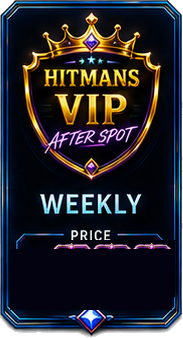
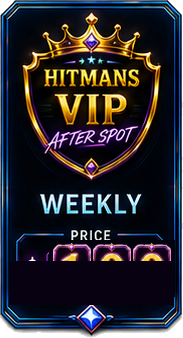
Bake purple price digits into tier cards (clean, no overlay)
Composite the sheet's purple modular digit boxes directly into each
tier card's PRICE slot at build time instead of overlaying them at
runtime. Fills the baked digit-box row with the card's own dark interior
color (covering the old gold numbers and box tops) then alpha-composites
the purple $-and-digit glyphs pixel-exact. Removes the fragile runtime
PriceDigits overlay, its CSS, and the per-digit asset list.

Daily shows $0 (pay-what-you-want). No ghost boxes, no black box,
digits seated precisely in the slot.

Claude-Session: https://claude.ai/code/session_01ADwVEMnuAZygKPZ7Pb8UgW

diff --git a/hitmans_vip_membership_app/src/main.jsx b/hitmans_vip_membership_app/src/main.jsx
@@ -343,30 +343,16 @@ const ui = {
     { label: 'Google Pay', src: '/assets/ui/complete_ui_set/sliced_clean/by_type/buttons/source_14_033_190x47.png' },
     { label: 'PayPal', src: '/assets/ui/complete_ui_set/sliced_clean/by_type/buttons/source_14_040_189x47.png' },
   ],
-  // Tier cards with the PRICE slot emptied — the price is dropped in from the
-  // purple modular digits (see pdigits), matching the membership sheet.
+  // Tier cards with the purple modular price digits baked directly into the
+  // PRICE slot (from the membership sheet) — pixel-exact, no runtime overlay,
+  // no ghost boxes. Daily shows $0 (pay-what-you-want / open contribution).
   tiers: [
-    { name: 'Daily', src: '/assets/ui/complete_ui_set/sliced_clean/by_type/cards/source_01_025_183x338_empty.png' },
-    { name: 'Weekly', src: '/assets/ui/complete_ui_set/sliced_clean/by_type/cards/source_01_026_183x338_empty.png' },
-    { name: 'Monthly', src: '/assets/ui/complete_ui_set/sliced_clean/by_type/cards/source_01_027_181x337_empty.png' },
-    { name: 'Yearly', src: '/assets/ui/complete_ui_set/sliced_clean/by_type/cards/source_01_028_181x337_empty.png' },
-    { name: 'VIP', src: '/assets/ui/complete_ui_set/sliced_clean/by_type/cards/source_01_029_179x337_empty.png' },
+    { name: 'Daily', src: '/assets/ui/complete_ui_set/sliced_clean/by_type/cards/source_01_025_183x338_priced.png' },
+    { name: 'Weekly', src: '/assets/ui/complete_ui_set/sliced_clean/by_type/cards/source_01_026_183x338_priced.png' },
+    { name: 'Monthly', src: '/assets/ui/complete_ui_set/sliced_clean/by_type/cards/source_01_027_181x337_priced.png' },
+    { name: 'Yearly', src: '/assets/ui/complete_ui_set/sliced_clean/by_type/cards/source_01_028_181x337_priced.png' },
+    { name: 'VIP', src: '/assets/ui/complete_ui_set/sliced_clean/by_type/cards/source_01_029_179x337_priced.png' },
   ],
-  // Purple modular price digits (0-9) — used to build any price on the cards.
-  // Listed as explicit literals so the deploy asset-trimmer keeps them.
-  pdigits: [
-    '/assets/ui/complete_ui_set/sliced_clean/by_type/cards/digit_p_0.png',
-    '/assets/ui/complete_ui_set/sliced_clean/by_type/cards/digit_p_1.png',
-    '/assets/ui/complete_ui_set/sliced_clean/by_type/cards/digit_p_2.png',
-    '/assets/ui/complete_ui_set/sliced_clean/by_type/cards/digit_p_3.png',
-    '/assets/ui/complete_ui_set/sliced_clean/by_type/cards/digit_p_4.png',
-    '/assets/ui/complete_ui_set/sliced_clean/by_type/cards/digit_p_5.png',
-    '/assets/ui/complete_ui_set/sliced_clean/by_type/cards/digit_p_6.png',
-    '/assets/ui/complete_ui_set/sliced_clean/by_type/cards/digit_p_7.png',
-    '/assets/ui/complete_ui_set/sliced_clean/by_type/cards/digit_p_8.png',
-    '/assets/ui/complete_ui_set/sliced_clean/by_type/cards/digit_p_9.png',
-  ],
-  pdollar: '/assets/ui/complete_ui_set/sliced_clean/by_type/cards/digit_p_dollar.png',
   titles: {
     membership: '/assets/ui/complete_ui_set/sliced_clean/by_type/components/source_01_001_897x135.png',
     entry: '/assets/ui/complete_ui_set/sliced_clean/by_type/components/source_04_001_905x140.png',
@@ -1441,24 +1427,9 @@ function PayVerifyScreen() {
   );
 }
 
-// Tier name -> pricing-card artwork (buy screen, has the $ price slot).
+// Tier name -> pricing-card artwork (buy screen). The purple price digits are
+// baked into each card's PRICE slot at build time — no runtime overlay needed.
 const TIER_SRC = Object.fromEntries(ui.tiers.map((t) => [t.name, t.src]));
-// Price rendered from the gold digit strips (ui.digits[d] is the art for digit d)
-// so every price uses the same clean, professional numerals.
-function PriceDigits({ value }) {
-  const digits = String(Math.round(value)).split('');
-  const n = digits.length + 1;                 // + the $ box
-  const h = Math.min(36, Math.floor(96 / (0.76 * n)));   // 47x63 boxes (aspect .75); fit the slot width
-  const st = { height: `${h}px` };
-  return (
-    <span className="price-digits">
-      <img className="pd-digit pd-cur" style={st} src={ui.pdollar} alt="$" />
-      {digits.map((c, i) => (
-        <img key={i} className="pd-digit" style={st} src={ui.pdigits[+c]} alt={c} />
-      ))}
-    </span>
-  );
-}
 // Tier name -> member PASS-card artwork (the pass; "MONTHLY PASS", no price).
 const PASS_SRC = Object.fromEntries(ui.passes.map((p) => [p.name, p.src]));
 // Door-result status -> its alert chip graphic.
@@ -1616,12 +1587,8 @@ function BuyMembership({ renewMode = false, currentTier, onBack } = {}) {
             className={`tier-buy-card${tier === row.name ? ' picked' : ''}`}
             onClick={() => setTier(row.name)}
           >
-            {/* tier card with an empty PRICE slot; the purple modular digits
-                drop into the slot (matches the membership sheet) */}
+            {/* tier card with the purple price digits baked into the slot */}
             <img className="tier-buy-art" src={TIER_SRC[row.name]} alt={row.name} />
-            <span className="tier-price-slot">
-              <PriceDigits value={row.open ? 0 : row.price} />
-            </span>
           </button>
         ))}
       </div>

diff --git a/hitmans_vip_membership_app/src/styles.css b/hitmans_vip_membership_app/src/styles.css
@@ -2961,12 +2961,6 @@ button {
 .tier-buy-card.picked { filter: drop-shadow(0 0 11px rgba(255,214,107,.9)); }
 .tier-buy-card.picked .tier-buy-art { transform: scale(1.04); }
 .tier-buy-card > img.tier-buy-art { width: 100%; max-width: 120px; height: auto; transition: transform .15s ease; }
-/* Price sits IN the card's empty PRICE slot — purple modular digits from the
-   sheet, sized (inline) so the whole price fits without overflowing. */
-.tier-price-slot { position: absolute; left: 7%; right: 7%; top: 74%; height: 17%; display: flex; align-items: center; justify-content: center; overflow: hidden; }
-.price-digits { display: flex; align-items: center; justify-content: center; gap: 0; max-width: 100%; }
-.pd-digit { width: auto; display: block; }
-.pd-cur { margin-right: 1px; }
 .tpp-open { display: flex; flex-direction: column; align-items: center; color: #c98bff; font-weight: 900; font-size: 15px; letter-spacing: .06em; line-height: 1; text-shadow: 0 0 10px rgba(180,100,255,.6); }
 .tpp-open small { color: #a98fd0; font-size: 6.5px; font-weight: 700; letter-spacing: .03em; margin-top: 3px; text-transform: uppercase; }
 .tier-buy-price { color: #fff; font-size: 20px; font-weight: 800; }
